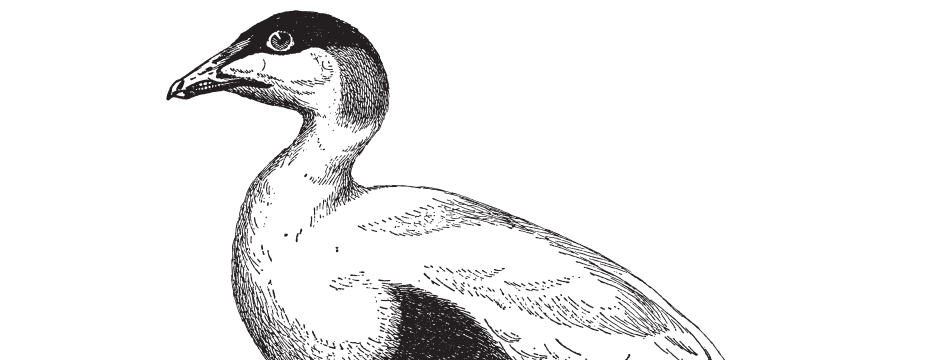
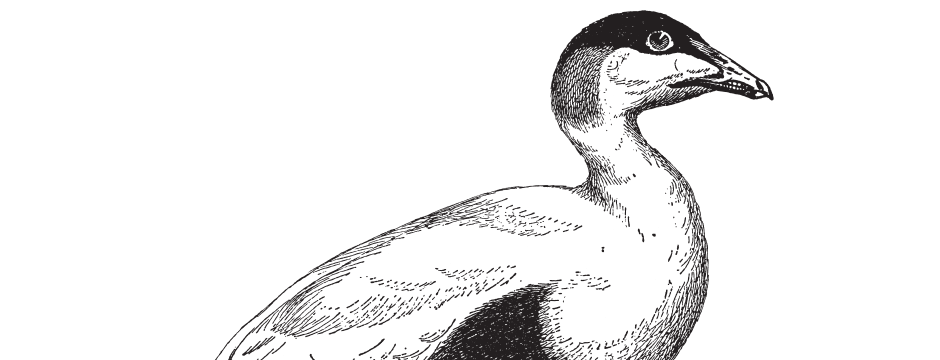
* Flipped duck * Added point headers * Added subtitle

Changed region(s): [[0.1543, 0.0306, 0.7713, 1.0], [0.5553, 0.0306, 0.833, 0.6111]]

diff --git a/index.html b/index.html
@@ -81,7 +81,8 @@
 		      <img src="./images/cover.png" alt="">
 		      <div class="flex-caption gdl-slider-caption">
 			<div class="gdl-slider-title">Functional JavaScript</div>
-			<div class="slider-title-bar"></div>
+			<p><i>Introducing Functional Programming with Underscore.js</i></p>
+
 			While some dismiss JavaScript as a flawed language, 
 			this succinct book shows you how to make the best of it by practicing 
 			a functional programming style.  This book is packed with not only the 
@@ -112,7 +113,25 @@
 		      <div class="column-service-image">
 			<img src="./images/icon.png">
 		      </div>
-		      <h2 class="column-service-title gdl-title">Blah blah</h2>
+		      <h2 class="column-service-title gdl-title">Functions</h2>
+		      <div class="clear"></div>
+		    </div>
+		    <div class="column-service-content">
+		      <i>Functional JavaScript</i>
+		    </div>
+		    <div class="column-service-learn-more">
+		      <a href="#">Learn More</a>
+		    </div>
+		  </div>
+		</div>
+
+		<div class="one-third column ">
+		  <div class="column-service-wrapper">
+		    <div class="column-service-title-wrapper">
+		      <div class="column-service-image">
+			<img src="./images/icon.png" alt="">
+		      </div>
+		      <h2 class="column-service-title gdl-title">Data</h2>
 		      <div class="clear"></div>
 		    </div>
 		    <div class="column-service-content">
@@ -132,27 +151,7 @@
 		      <div class="column-service-image">
 			<img src="./images/icon.png" alt="">
 		      </div>
-		      <h2 class="column-service-title gdl-title">Blah blah</h2>
-		      <div class="clear"></div>
-		    </div>
-		    <div class="column-service-content">
-		      Vestibulum id ligula porta felis euismod semper. ali
-		      d dolor id nibh ultricies vehicula ut id elit. Nulla vitae 
-		      libero, a pharetra augue. Magna Etiam
-		    </div>
-		    <div class="column-service-learn-more">
-		      <a href="#">Learn More</a>
-		    </div>
-		  </div>
-		</div>
-
-		<div class="one-third column ">
-		  <div class="column-service-wrapper">
-		    <div class="column-service-title-wrapper">
-		      <div class="column-service-image">
-			<img src="./images/icon.png" alt="">
-		      </div>
-		      <h2 class="column-service-title gdl-title">Blah blah</h2>
+		      <h2 class="column-service-title gdl-title">Abstraction</h2>
 		      <div class="clear"></div>
 		    </div>
 		    <div class="column-service-content">
